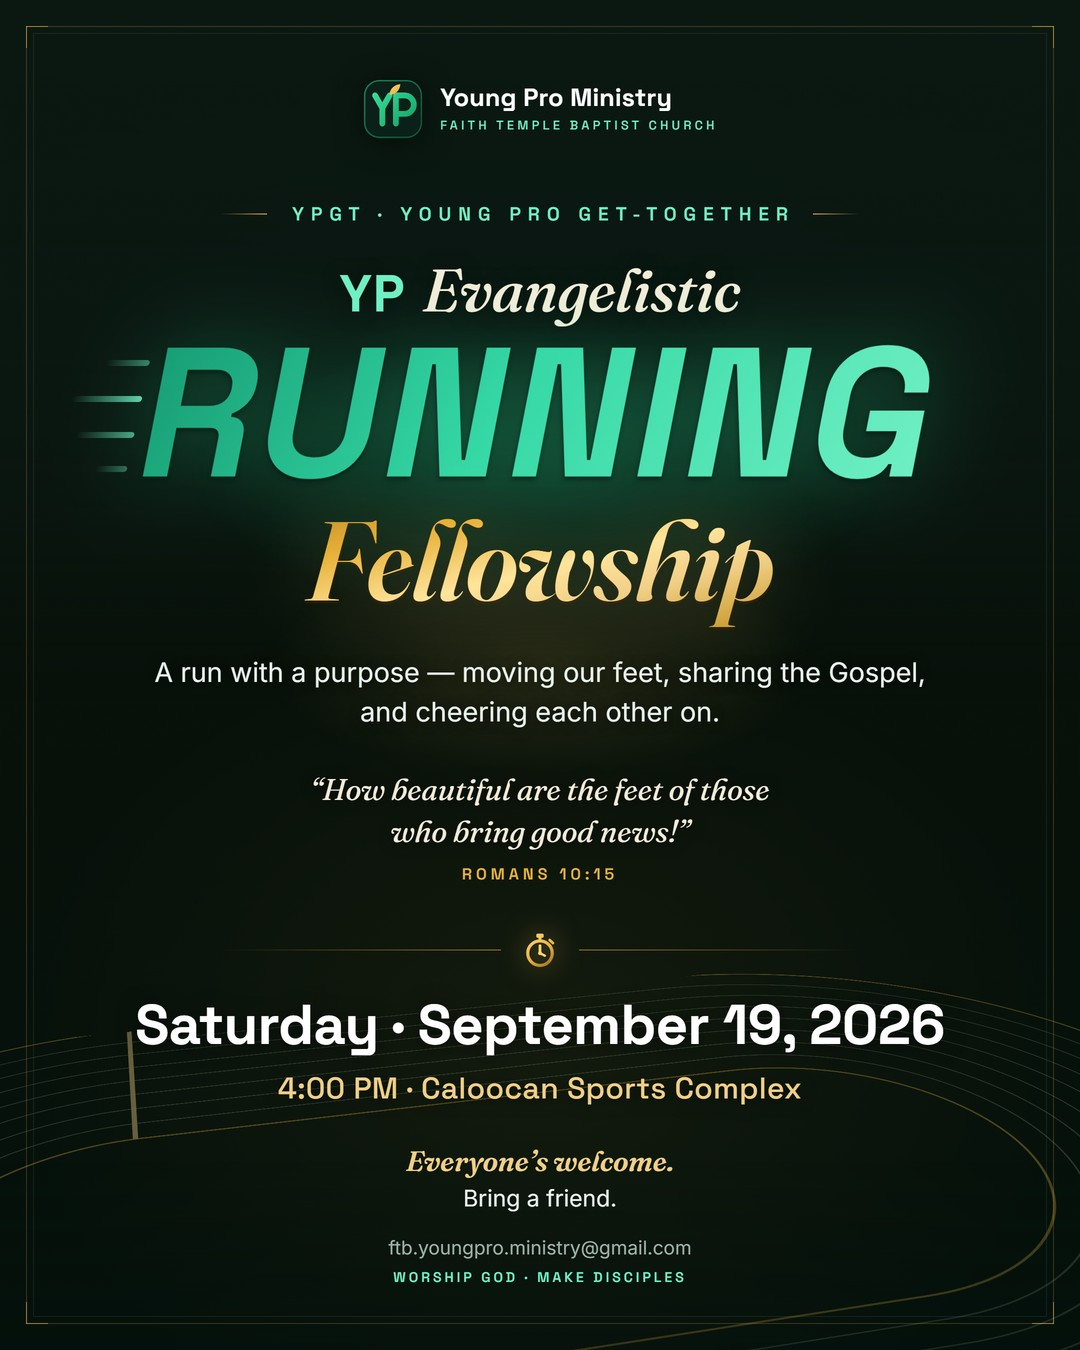
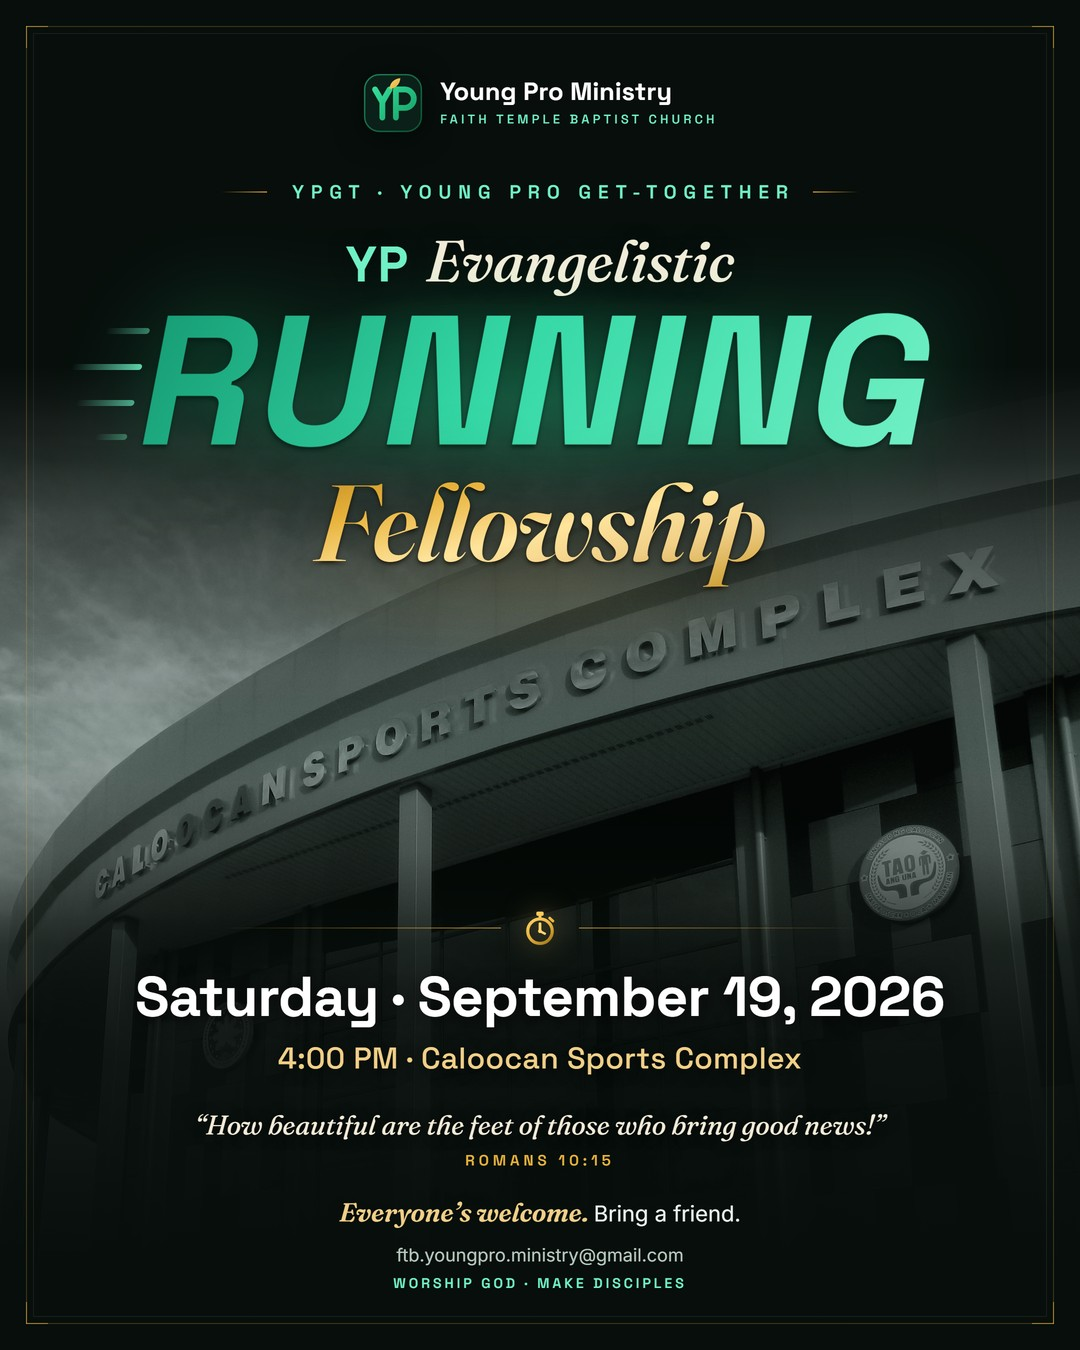
Put the Caloocan Sports Complex in black and white behind the Running Fellowship poster
- Redo the poster over a CC0 photo of the venue (Judgefloro, Wikimedia Commons),
  its curved CALOOCAN SPORTS COMPLEX lettering clear between headline and date
- Drop the blurb line to give the building room; same date, time, venue, and verse
- Bump the service worker cache so the updated poster refreshes for returning visitors

diff --git a/sw.js b/sw.js
@@ -16,7 +16,7 @@
   Bump CACHE_VERSION whenever the shell assets change so clients pick up fresh files.
 */
 
-const CACHE_VERSION = "yp-cache-v5";
+const CACHE_VERSION = "yp-cache-v6";
 
 /*
   Core shell that must be present for the precache to succeed. Every entry here is a
